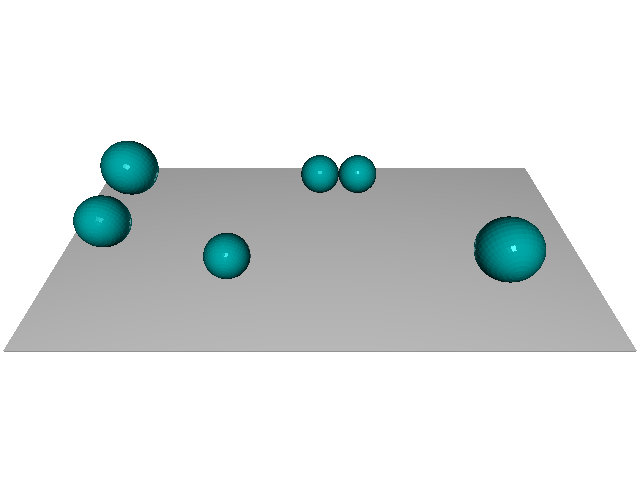
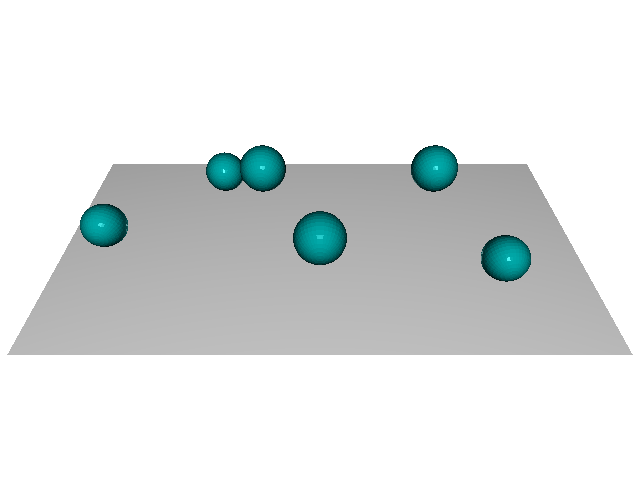
update Calculate for 3-D radius of spheres

diff --git a/CWII2324-v2.py b/CWII2324-v2.py
@@ -574,28 +574,19 @@ if __name__ == '__main__':
     '''
     estimated_radii = []
 
-    # Assuming circles0 and reconstructed_centers are available from previous tasks
-    # and 'f' is the focal length used in camera setup
-    for i, circle in enumerate(circles0[0, :]):
-        # print(circles0)
-        # Extract the 2D radius
-        radius_2d = circle[2]
+    for i in range(len(reconstructed_centers)):
+        # Calculate the distance from the camera to the sphere center
+        d0 = np.linalg.norm(reconstructed_centers[i] - H0_wc[:3, 3])
 
-        # Extract the corresponding 3D center
-        center_3d = reconstructed_centers[i]
+        # Apparent radii from images
+        R_2D = circles0[0][i][2]  # radius from image 1
 
-        # Estimate the 3D radius
-        # This assumes the depth of the sphere center is a good approximation for the sphere's radius
-        # print("radius_2d",radius_2d)
-        # print("center_3d",center_3d)
-        # print("f",f)
-        # print("np.linalg.norm(center_3d)",np.linalg.norm(center_3d))
-#        radius_3d = radius_2d / f * np.linalg.norm(center_3d)
-        radius_3d = radius_2d * w / f
+        # Calculate real radius using similar triangles
+        R_3D = R_2D * d0 / f
 
-        estimated_radii.append(radius_3d)
+        estimated_radii.append(R_3D)
 
-        print(f"Estimated 3D radius for sphere {i}: {radius_3d}")
+        print(f"Estimated 3D radius for sphere {i}: {R_3D}")
     ###################################
 
 
